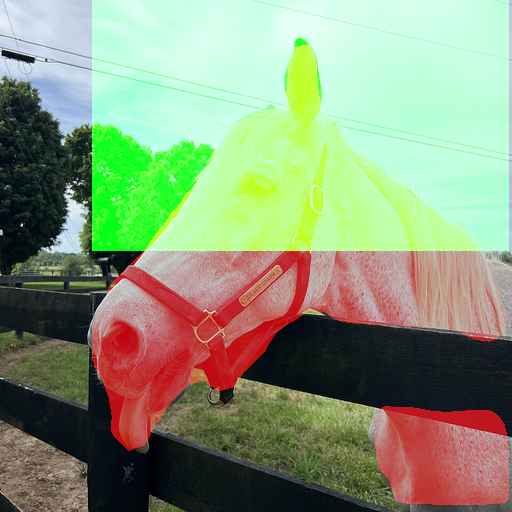
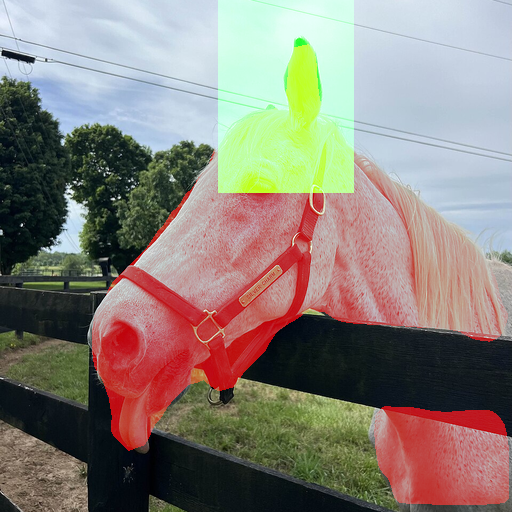
Locate animal heads from the top of the mask, not the top of the box
The horse box spans nearly the whole frame because the body extends to the
right, so taking a band off the top of the bounding box covered mostly sky
and mane -- the straw hat never appeared and horse_03 failed its preflight.
The head band now comes from the topmost part of the segmentation mask and
is centred on that band horizontal centroid, which lands on the ears. Head
area drops from 0.399 to 0.100.

Claude-Session: https://claude.ai/code/session_01SwmAJq6ZFbhdYrZS3oU6RG

Changed region(s): [[0.1562, 0.0, 1.0, 0.5]]

diff --git a/scripts/auto_masks.py b/scripts/auto_masks.py
@@ -17,7 +17,8 @@ horse／bird）取該類別的實例。**不引入新相依。**
 重畫區必須涵蓋主體之外的空間，貼著輪廓切就沒地方長出來。
 
 person 的頭與軀幹由 Keypoint R-CNN 的 COCO 17 點決定（眼耳鼻定頭、肩髖定
-軀幹）；動物沒有對應的關鍵點模型，頭部改取實例外接框的上緣一段。
+軀幹）；動物沒有對應的關鍵點模型，頭部取**遮罩最上緣那一帶的水平重心**——
+用外接框的上緣一段會失敗，馬的外接框橫跨整張圖而那一帶大半是天空與鬃毛。
 
 用法：
     python scripts/auto_masks.py --data data/lo_aligned --out data/lo_masks_auto
@@ -50,8 +51,10 @@ RESOLUTION = 512
 KP = KeypointRCNN_ResNet50_FPN_Weights.DEFAULT.meta["keypoint_names"]
 # 頭框向上延伸的倍率（以頭框高為單位）。戴帽子需要頭頂之上的空間。
 HEAD_UP = 1.1
-# 動物的頭部取實例外接框上緣這個比例。
-ANIMAL_HEAD_FRAC = 0.45
+# 動物頭部：取遮罩最上緣這個比例的帶狀區域來定位水平重心。
+ANIMAL_HEAD_BAND = 0.22
+# 頭框半寬的下限，以外接框寬為單位。避免帶狀區域太窄時框到一個小點。
+ANIMAL_HEAD_MIN = 0.16
 
 
 def dilate(mask: torch.Tensor, px: int) -> torch.Tensor:
@@ -155,9 +158,17 @@ def main() -> None:
                 torso = box_mask(subject, sy - 0.12 * wd, hy + 0.10 * wd,
                                  min(sx) - 0.35 * wd, max(sx) + 0.35 * wd)
         if head is None:
-            h = y1 - y0
-            head = box_mask(subject, y0 - HEAD_UP * ANIMAL_HEAD_FRAC * h,
-                            y0 + ANIMAL_HEAD_FRAC * h, x0, x1)
+            # 動物沒有關鍵點模型。取**遮罩最上緣那一帶的水平重心**定位頭部，
+            # 不用外接框的上緣一段——外接框可能橫跨整張圖（horse_03 的馬身
+            # 在右側延伸），那一帶大半是天空與鬃毛，帽子不會落在頭上。
+            band = subject.clone()
+            band[..., y0 + int(ANIMAL_HEAD_BAND * (y1 - y0)):, :] = 0.0
+            cols = torch.nonzero(band[0, 0].sum(0) > 0).flatten()
+            cx = float(cols.float().mean())
+            half = max(0.5 * float(cols[-1] - cols[0]),
+                       ANIMAL_HEAD_MIN * (x1 - x0)) / 1.0
+            head = box_mask(subject, y0 - HEAD_UP * half, y0 + 2.2 * half,
+                            cx - half, cx + half)
 
         out_masks = {"subject": subject, "background": 1.0 - guarded, "head": head}
         if torso is not None:
@@ -189,7 +200,8 @@ def main() -> None:
         "seg": "torchvision maskrcnn_resnet50_fpn_v2, COCO",
         "keypoints": "torchvision keypointrcnn_resnet50_fpn, COCO 17 點（person）",
         "rho": args.rho, "score_min": args.score_min,
-        "head_up": HEAD_UP, "animal_head_frac": ANIMAL_HEAD_FRAC,
+        "head_up": HEAD_UP, "animal_head_band": ANIMAL_HEAD_BAND,
+        "animal_head_min": ANIMAL_HEAD_MIN,
         "note": "head/torso 是方框而非輪廓：要在主體上加東西，重畫區必須涵蓋"
                 "主體之外的空間",
     }, ensure_ascii=False, indent=2), encoding="utf-8")
